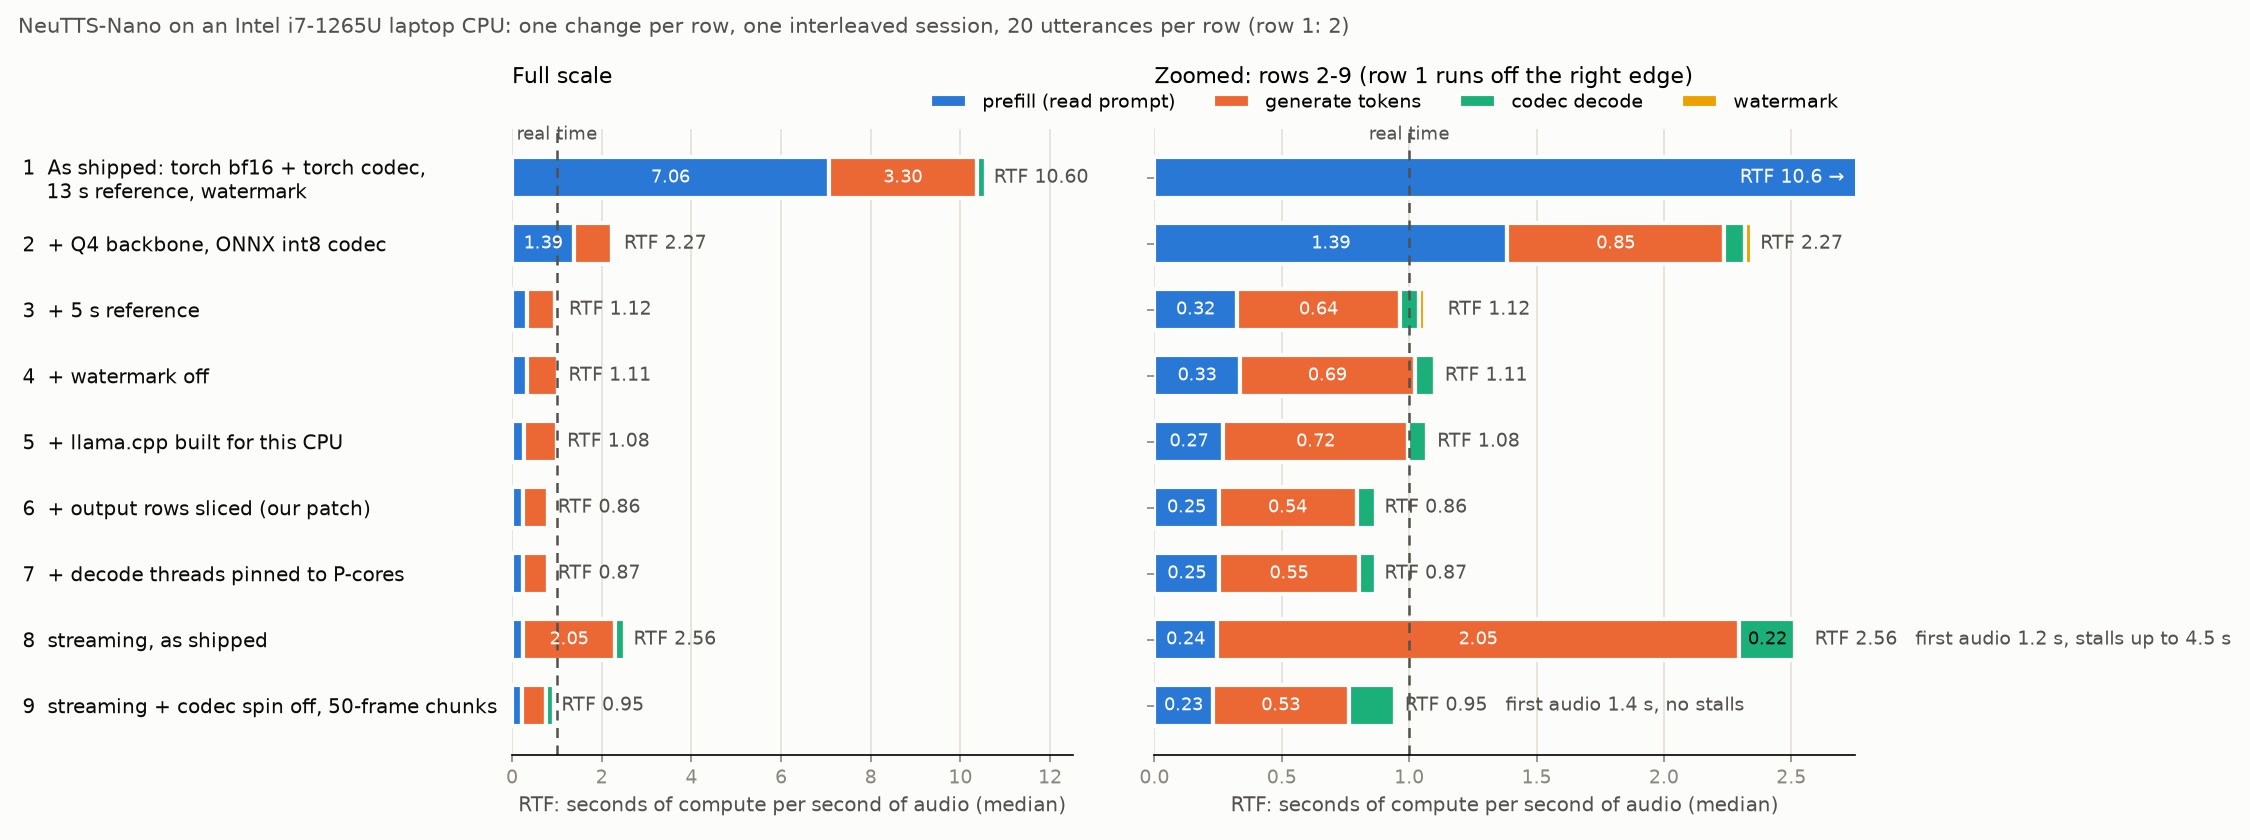
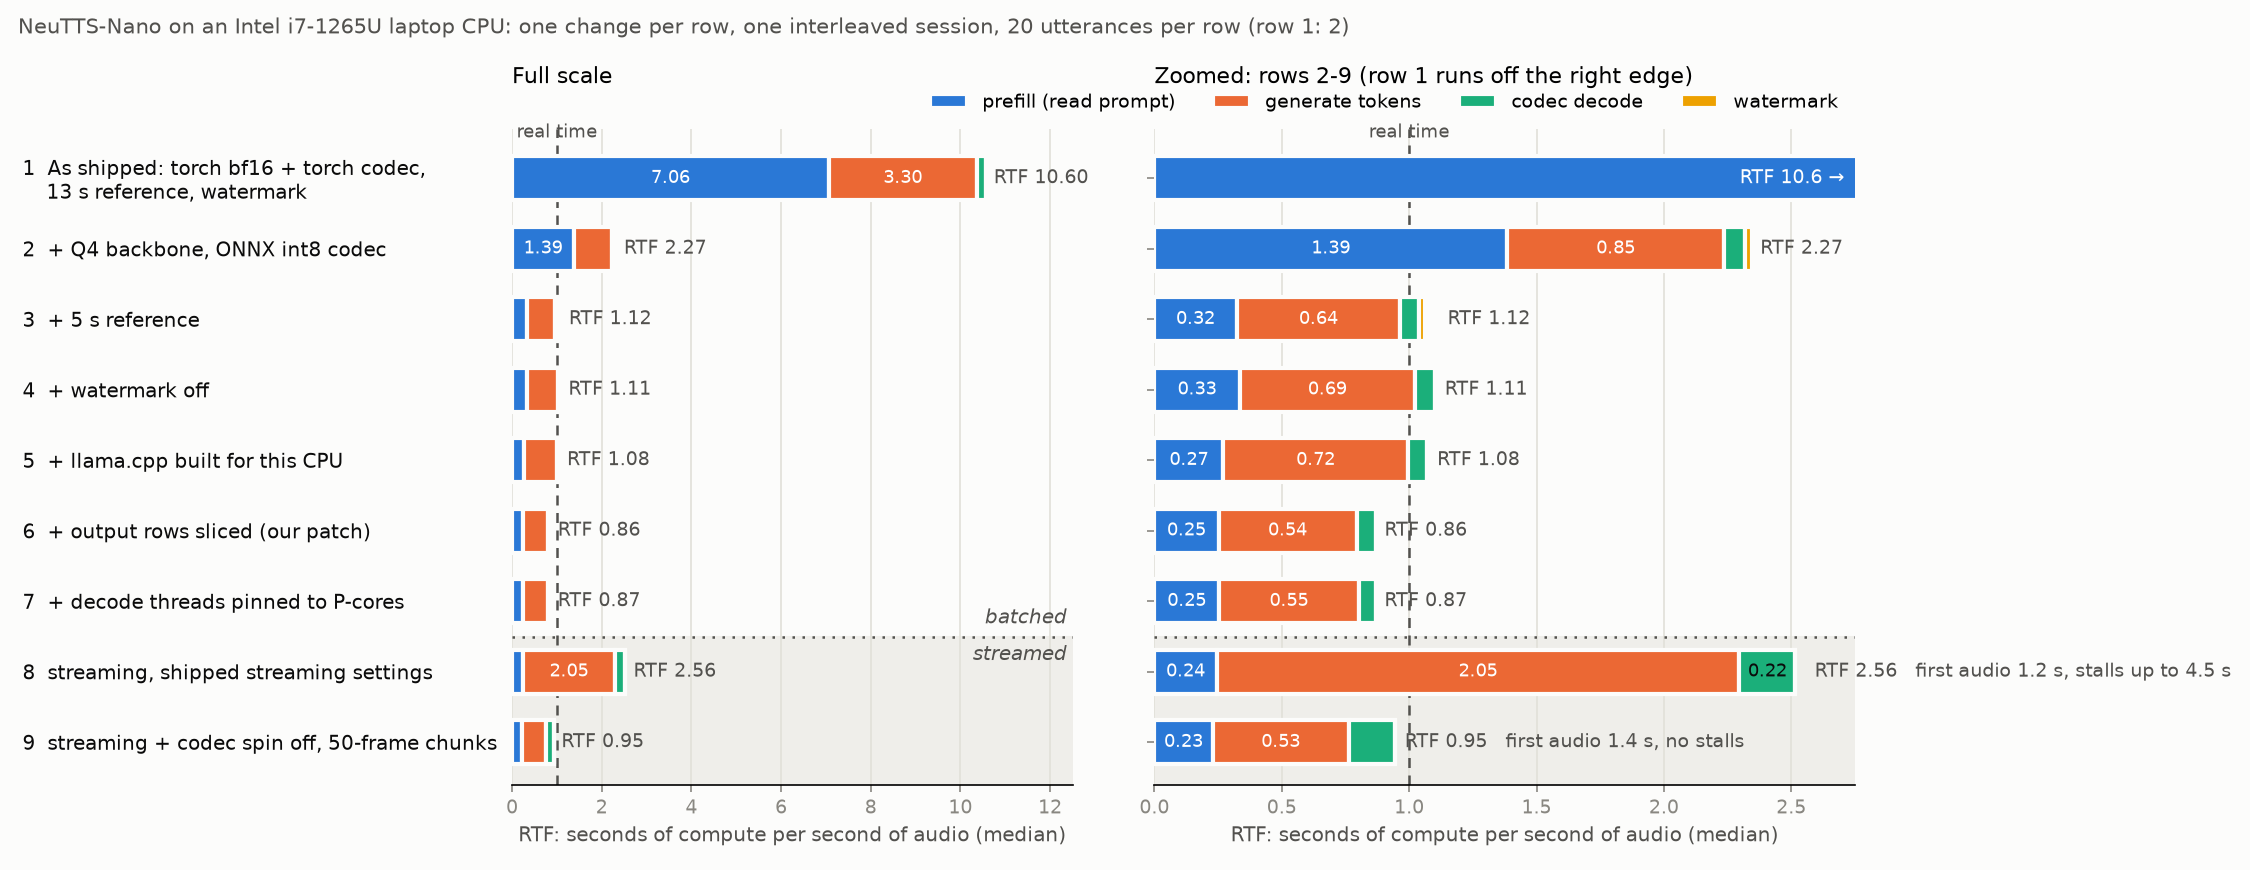
Headline figure: separate batched and streamed rows; add plot_headline.py

diff --git a/harness/plot_headline.py b/harness/plot_headline.py
@@ -1,0 +1,80 @@
+"""The headline figure: the nine-step chain (sweep h1) as stacked per-stage RTF, full scale and zoomed.
+
+    uv run harness/plot_headline.py            # -> results/headline.png
+"""
+import json
+
+import matplotlib
+import numpy as np
+
+matplotlib.use("Agg")
+import matplotlib.pyplot as plt
+
+ROWS = [
+    ("h1_1_shipped", "1  As shipped: torch bf16 + torch codec,\n    13 s reference, watermark"),
+    ("h1_2_q4_onnx8", "2  + Q4 backbone, ONNX int8 codec"),
+    ("h1_3_ref5", "3  + 5 s reference"),
+    ("h1_4_nowm", "4  + watermark off"),
+    ("h1_5_native_build", "5  + llama.cpp built for this CPU"),
+    ("h1_6_sliced", "6  + output rows sliced (our patch)"),
+    ("h1_7_pinned", "7  + decode threads pinned to P-cores"),
+    ("h1_8_stream_shipped", "8  streaming, shipped streaming settings"),
+    ("h1_9_stream_final", "9  streaming + codec spin off, 50-frame chunks"),
+]
+N_BATCH = 7
+C = {"prefill": "#2a78d6", "generate": "#eb6834", "decode": "#1baf7a", "watermark": "#eda100"}
+L = {"prefill": "prefill (read prompt)", "generate": "generate tokens", "decode": "codec decode", "watermark": "watermark"}
+INK, INK2, GRID = "#0b0b0b", "#52514e", "#e1e0d9"
+
+
+def main():
+    S = [json.load(open(f"results/{n}/summary.json")) for n, _ in ROWS]
+    fig, ax = plt.subplots(1, 2, figsize=(15, 5.8), facecolor="#fcfcfb", gridspec_kw={"width_ratios": [1, 1.25]}, sharey=True)
+    y = np.arange(len(ROWS))[::-1]
+    split = y[N_BATCH - 1] - 0.5  # between the last batch row and the first streaming row
+    for a, xmax, title in ((ax[0], 12.5, "Full scale"), (ax[1], 2.75, "Zoomed: rows 2-9 (row 1 runs off the right edge)")):
+        a.set_facecolor("#fcfcfb")
+        a.axhspan(-0.6, split, color="#efeeea", zorder=0)
+        a.axhline(split, color=INK2, linestyle=(0, (1, 3)), linewidth=1.2, zorder=1)
+        left = np.zeros(len(ROWS))
+        for k in C:
+            v = np.nan_to_num(np.array([float(s["stage_rtf_median"].get(k) or 0) for s in S]))
+            a.barh(y, v, left=left, height=0.62, color=C[k], edgecolor="#fcfcfb", linewidth=2, label=L[k], zorder=2)
+            for yi, l, w in zip(y, left, v):
+                if w > 0.075 * xmax and l + w <= xmax:
+                    a.text(l + w / 2, yi, f"{w:.2f}", ha="center", va="center", fontsize=8.5, color="#ffffff" if k in ("prefill", "generate") else INK, zorder=3)
+            left += v
+        for yi, s, end in zip(y, S, left):
+            t = s["rtf_median"]
+            extra = ""
+            if s.get("ttfa_median") is not None and a is ax[1]:
+                extra = f"   first audio {s['ttfa_median']:.1f} s, " + ("no stalls" if s["stall_max"] == 0 else f"stalls up to {s['stall_max']:.1f} s")
+            if max(t, end) < xmax:
+                a.text(max(t, end) + xmax * 0.012, yi, f"RTF {t:.2f}{extra}", va="center", fontsize=9, color=INK2, zorder=3)
+            else:
+                a.text(xmax * 0.985, yi, f"RTF {t:.1f} →", va="center", ha="right", fontsize=9, color="#ffffff", zorder=3)
+        a.axvline(1.0, color=INK2, linestyle=(0, (4, 3)), linewidth=1.2, zorder=1)
+        a.text(1.0, len(ROWS) - 0.42, "real time", ha="center", fontsize=8.5, color=INK2)
+        if a is ax[0]:  # rows share the y axis; the zoomed panel's long bars leave no room for the labels
+            a.text(xmax * 0.99, split + 0.12, "batched", ha="right", va="bottom", fontsize=9.5, color=INK2, style="italic")
+            a.text(xmax * 0.99, split - 0.12, "streamed", ha="right", va="top", fontsize=9.5, color=INK2, style="italic")
+        a.set_xlim(0, xmax)
+        a.set_ylim(-0.6, len(ROWS) - 0.3)
+        a.grid(axis="x", color=GRID, linewidth=0.8)
+        a.set_axisbelow(True)
+        a.tick_params(colors="#898781", labelsize=9)
+        for sp in ("top", "right", "left"):
+            a.spines[sp].set_visible(False)
+        a.set_title(title, loc="left", fontsize=10.5, pad=22)
+        a.set_xlabel("RTF: seconds of compute per second of audio (median)", fontsize=9.5, color=INK2)
+    ax[0].set_yticks(y, [l for _, l in ROWS], fontsize=9.5, color=INK, ha="left")
+    ax[0].tick_params(axis="y", pad=235, length=0)
+    ax[1].legend(loc="lower right", frameon=False, fontsize=9, ncol=4, bbox_to_anchor=(1.0, 1.0))
+    fig.suptitle("NeuTTS-Nano on an Intel i7-1265U laptop CPU: one change per row, one interleaved session, 20 utterances per row (row 1: 2)", x=0.008, ha="left", fontsize=10, color=INK2)
+    fig.tight_layout()
+    fig.savefig("results/headline.png", dpi=150)
+    print("wrote results/headline.png")
+
+
+if __name__ == "__main__":
+    main()
